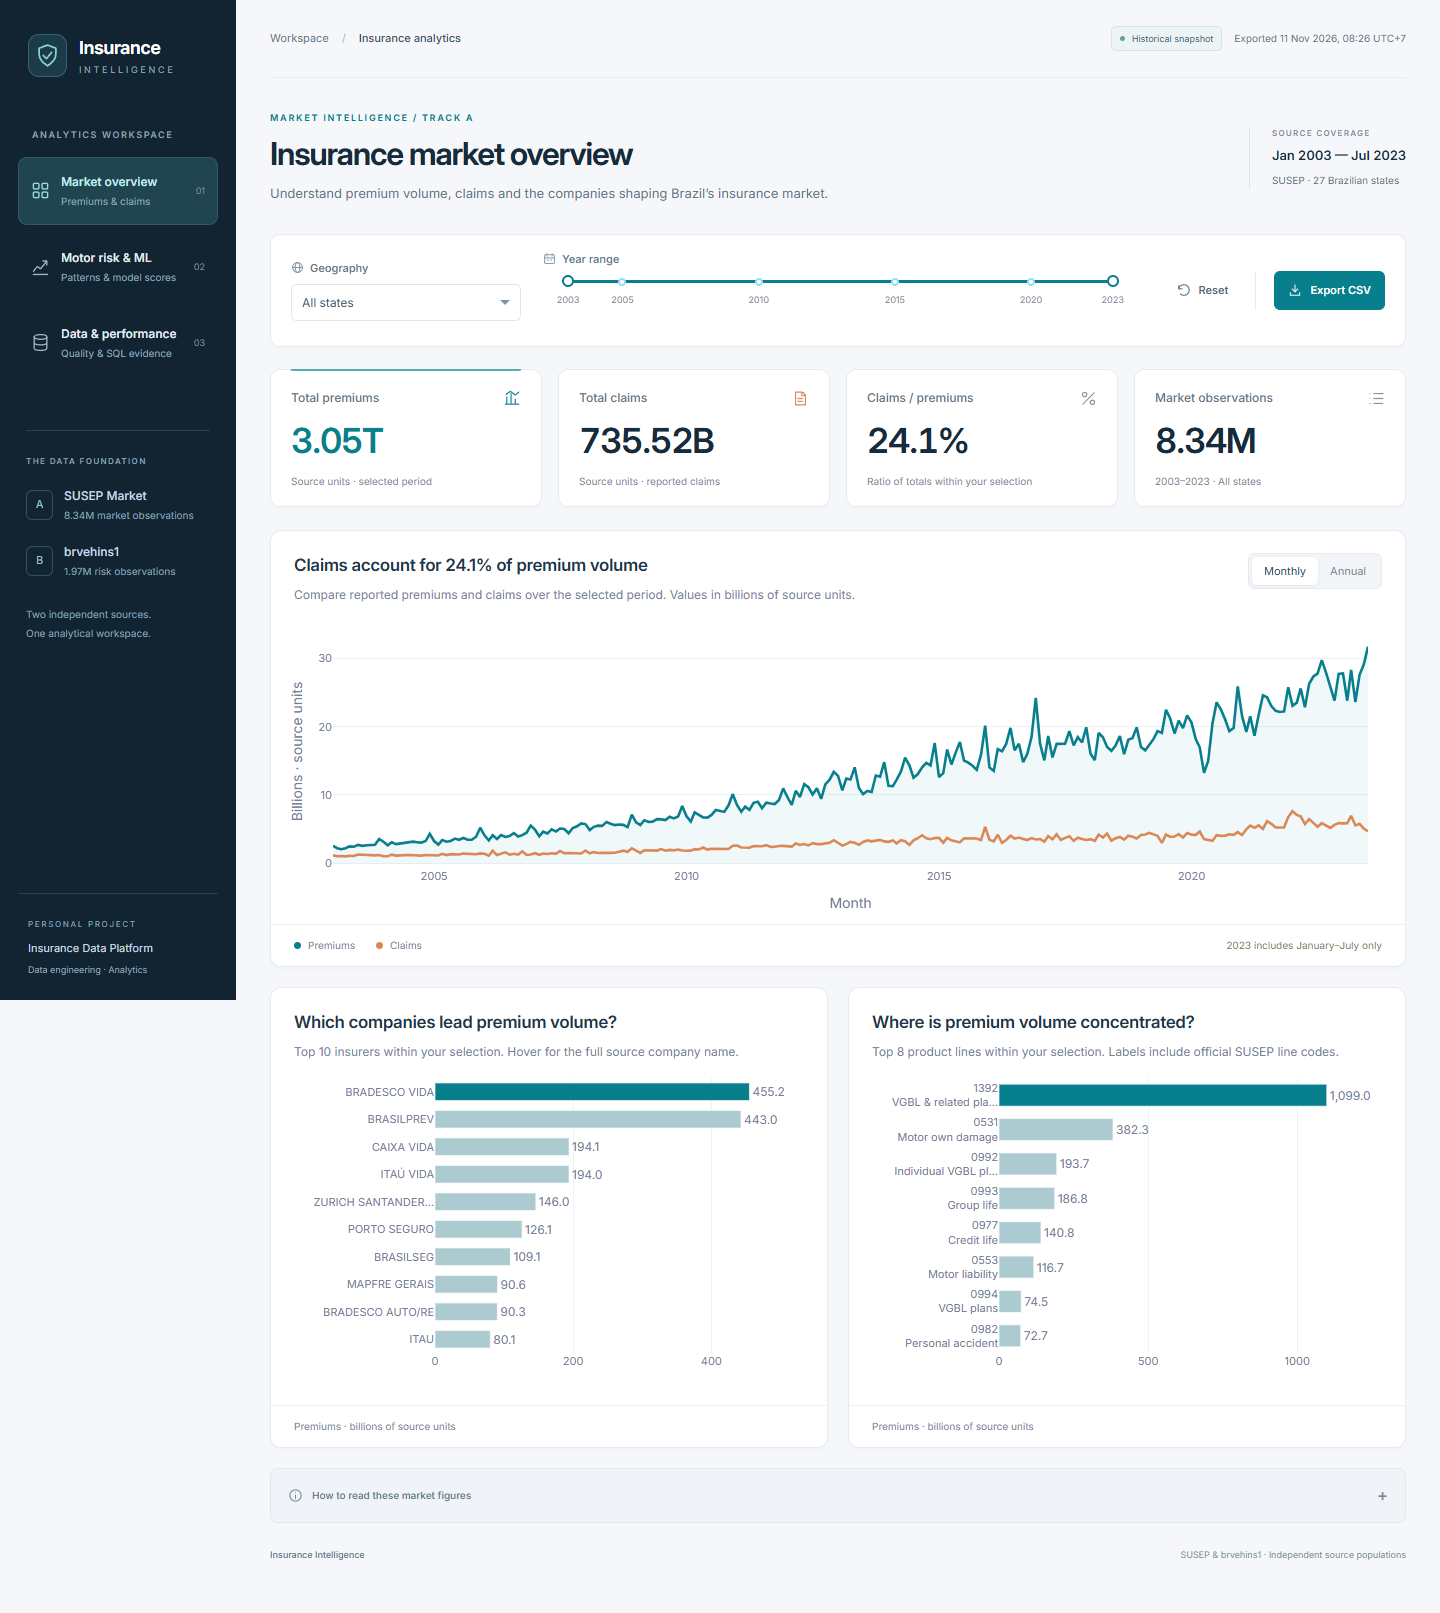
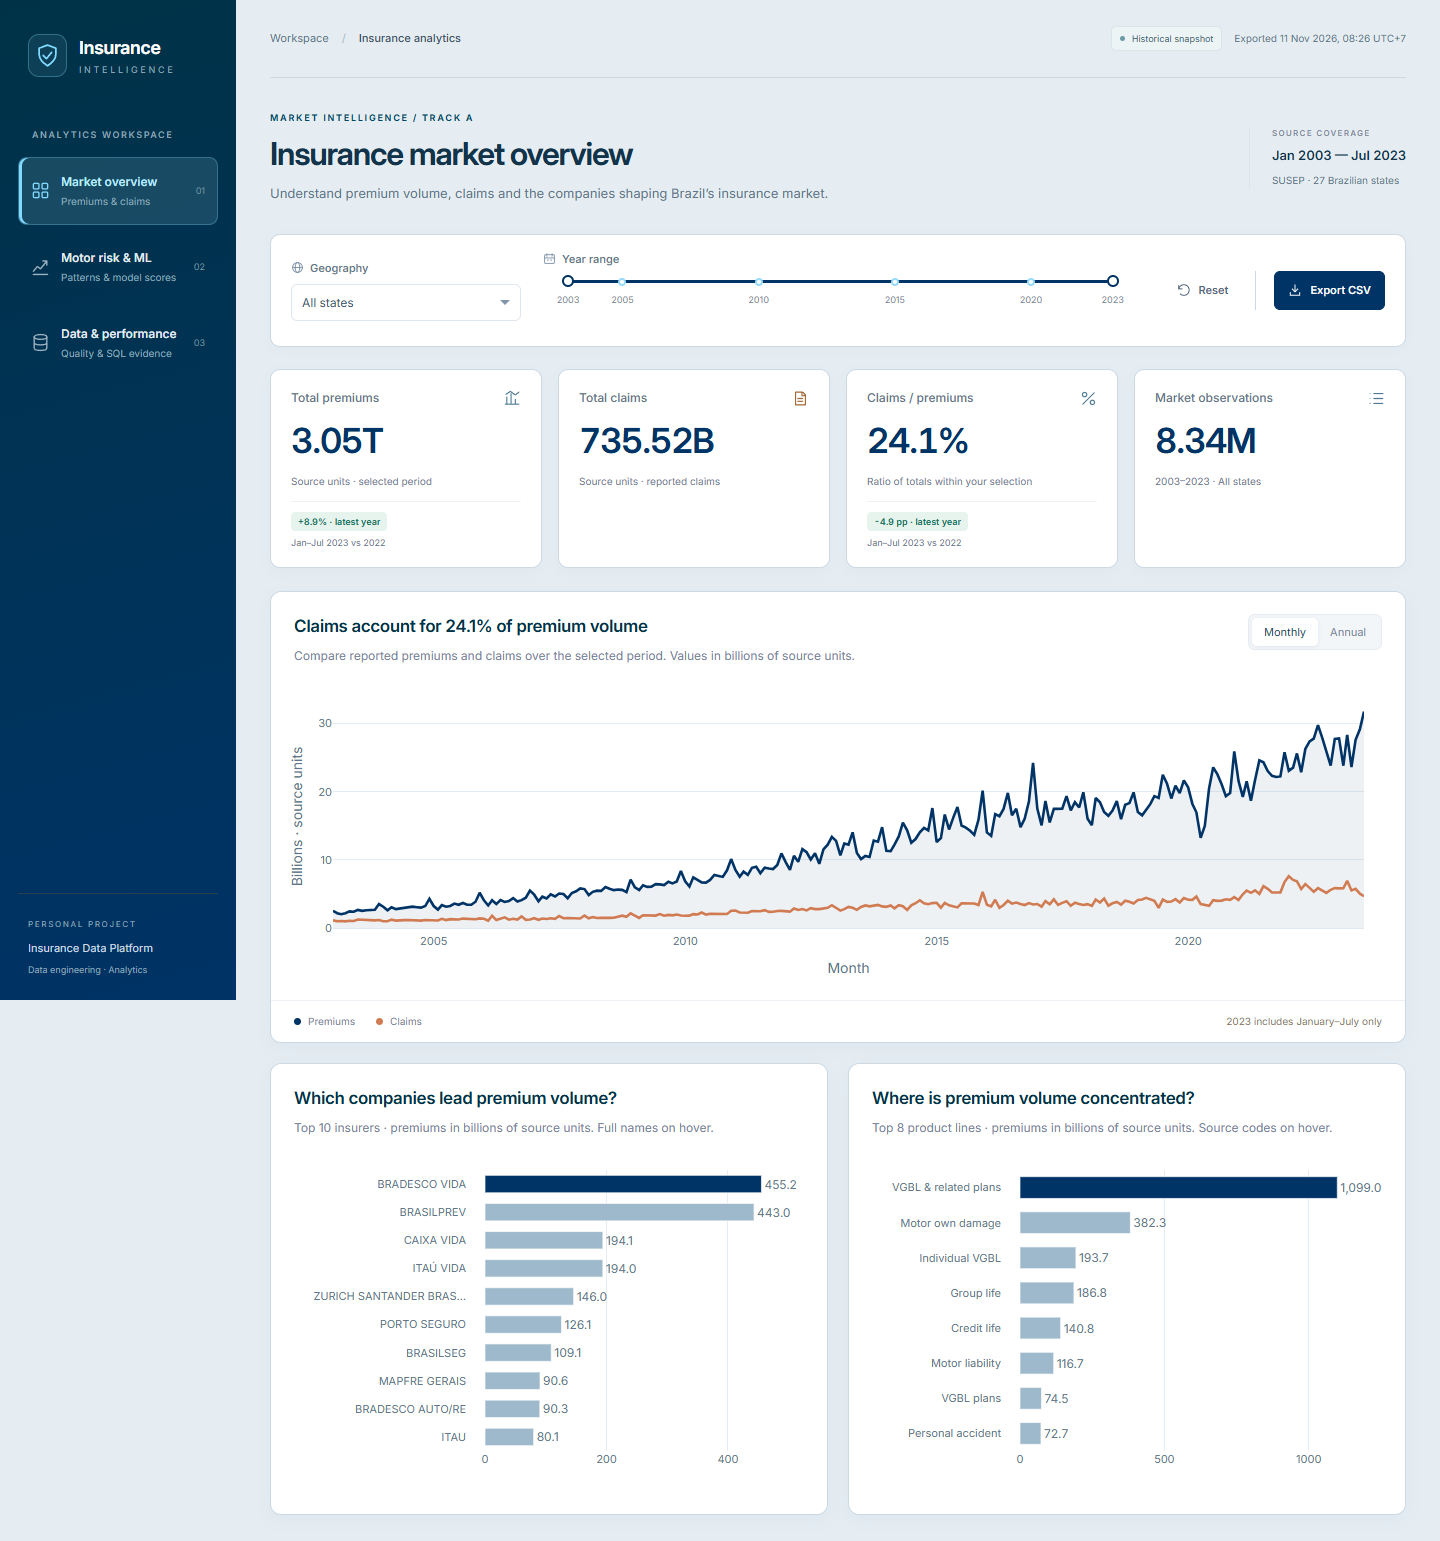
test(dashboard): verify responsive charts and KPI comparisons

diff --git a/tests/browser_check.py b/tests/browser_check.py
@@ -31,6 +31,12 @@ def check(base_url: str, screenshot: bool) -> None:
         assert page.evaluate("document.fonts.check('500 14px Inter')")
         assert page.locator("#market-trend .main-svg").count() > 0
         assert page.locator("#market-trend").bounding_box()["height"] >= 290
+        assert page.locator(".sidebar-data, .reading-note, .scope-note, .workspace footer").count() == 0
+        assert page.locator("#market-metrics .metric-change.positive").count() == 2
+        expect(page.locator("#market-metrics")).to_contain_text("Jan–Jul 2023 vs 2022")
+        assert page.evaluate("document.querySelector('#market-products .js-plotly-plot').layout.yaxis.ticklabelstandoff") == 18
+        assert page.evaluate("document.querySelector('#market-products .js-plotly-plot').layout.yaxis.ticktext.every(t => !t.includes('<br>'))")
+        assert page.locator(".chart-card").filter(has=page.locator("#market-products")).locator(".chart-footnote").count() == 0
         if screenshot:
             page.screenshot(path=str(Path(__file__).resolve().parents[1] / "dashboard/assets/preview.png"), full_page=True)
         page.locator("#market-trend").hover()
@@ -48,6 +54,7 @@ def check(base_url: str, screenshot: bool) -> None:
         page.locator("#market-state input").fill("SP")
         page.get_by_text("SP · São Paulo", exact=True).click()
         expect(page.locator("#market-metrics")).to_contain_text("SP")
+        expect(page.locator("#market-metrics .metric-change.negative")).to_contain_text("+1.7 pp")
         assert before != page.locator("#market-metrics").inner_text()
         handle = page.locator("#market-years .rc-slider-handle-1")
         position = handle.bounding_box()
@@ -80,8 +87,8 @@ def check(base_url: str, screenshot: bool) -> None:
         assert "Không rõ" not in str(risk_rows)
         page.locator("#risk-reset").click()
         expect(page.locator("#risk-takeaway")).to_contain_text("67.6%")
-        page.locator(".reading-note summary").click()
-        assert page.locator(".reading-note").get_attribute("open") is not None
+        assert page.locator(".sidebar-data, .reading-note, .scope-note, .workspace footer").count() == 0
+        expect(page.locator(".chart-card").filter(has=page.locator("#risk-distribution"))).to_contain_text("not validated future claim probabilities")
 
         page.locator("#section label").filter(has_text=labels[2]).click()
         page.get_by_role("heading", name="Quality you can trace", exact=True).wait_for()

diff --git a/tests/test_platform.py b/tests/test_platform.py
@@ -2,13 +2,16 @@
 import sys
 import unittest
 from pathlib import Path
+from unittest.mock import patch
+
+import pandas as pd
 
 ROOT = Path(__file__).resolve().parents[1]
 sys.path.insert(0, str(ROOT))
 sys.path.insert(0, str(ROOT / "pipeline"))
 
-from dashboard.app import ratio, update_market, update_risk
-from dashboard.data import market_frames, risk_frames, snapshot
+from dashboard.app import market_change, ratio, update_market, update_risk
+from dashboard.data import latest_market_comparison, market_frames, risk_frames, snapshot
 from manage import migration_paths, sql_batches
 
 
@@ -58,6 +61,23 @@ class PlatformTests(unittest.TestCase):
     def test_numeric_migration_order_and_go_boundary(self):
         self.assertEqual([int(p.name.split("__")[0][1:]) for p in migration_paths()], list(range(1, 15)))
         self.assertEqual(sql_batches("SELECT 'GO';\nGO\nSELECT 2;\nGO -- comment\n"), ["SELECT 'GO';", "SELECT 2;"])
+
+    def test_latest_year_comparison_matches_months_and_geography(self):
+        current = pd.DataFrame({"month": ["2023-01-01", "2023-02-01"], "year": [2023, 2023],
+                                "premium": [100., 200.], "claims": [50., 100.]})
+        previous = pd.DataFrame({"month": ["2022-01-01", "2022-02-01", "2022-03-01", "2022-01-01"],
+                                 "state": ["SP", "SP", "SP", "RJ"], "premium": [200., 200., 99999., 99999.],
+                                 "claims": [40., 40., 0., 0.]})
+        with patch("dashboard.data.table", return_value=previous):
+            comparison = latest_market_comparison(current, "SP")
+        self.assertEqual(comparison["period"], "Jan–Feb 2023 vs 2022")
+        self.assertAlmostEqual(comparison["premium_change"], -25)
+        self.assertAlmostEqual(comparison["ratio_change_pp"], 30)
+        self.assertIn("negative", market_change(comparison, "premium_change").children[0].className)
+        self.assertIn("negative", market_change(comparison, "ratio_change_pp", lower_is_better=True).children[0].className)
+        with patch("dashboard.data.table", return_value=previous.iloc[[0]]):
+            self.assertEqual(latest_market_comparison(current, "SP"), {})
+        self.assertEqual(latest_market_comparison(current.iloc[:0], "SP"), {})
 
 
 if __name__ == "__main__":
